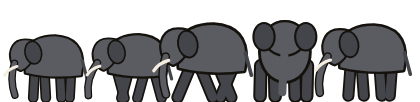
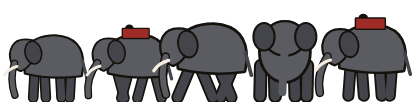
The night crossing, round 11: a deeper lean on the iPad for the wade, a slower dawn, a dusk-toned dark over the channel, softer banks, rafts with hides and paddlers, mahouts [skip ci]
What the seventh hater found (tools/hydaspes/ROUNDS.md): the island and the waders drawn worse than the
camps. The globe leans deeper on the iPad so the men in the channel are bodies; the dawn thins more
slowly so the dark over the channel holds while the column is on the island, in a dusk tone; the
island's edge and the banks are darker water, not black; the rafts are stuffed hides lashed to poles
with paddlers and a horse; two elephants carry mahouts.

Claude-Session: https://claude.ai/code/session_01BAtskAVj8DPfVm79Es5aLJ

Changed region(s): [[0.8357, 0.1176, 0.9286, 0.2941], [0.2786, 0.2353, 0.3714, 0.3824]]

diff --git a/tools/hydaspes/art.js b/tools/hydaspes/art.js
@@ -14,7 +14,7 @@
                   water: '#262220', water2: '#2E2A28', sheen: '#8E8C96', bank: '#0A0A12', foam: '#A6A4AE', wood: '#0E1620', wood2: '#172430',
                   kas: '#1F2436', sand: '#4C4A50', sand2: '#3A383E', edge: '#141827', moon: '#8E99B8' };
   const DAY = { plain: '#7A7E6E', plain2: '#878B78', plain3: '#6B6F60', hill: '#6E7266', hillRim: '#A8AB98',
-                water: '#4E3A2C', water2: '#5C4634', sheen: '#C8AE8E', bank: '#2E2824', foam: '#E8DCC8', wood: '#3C4E3A', wood2: '#4A5E46',
+                water: '#4E3A2C', water2: '#5C4634', sheen: '#C8AE8E', bank: '#40322A', foam: '#E8DCC8', wood: '#3C4E3A', wood2: '#4A5E46',
                 kas: '#66707E', sand: '#A69C88', sand2: '#8A8070', edge: '#6E7684', moon: '#F0C890' };
   const INK = '#15110C', FIRE = '#FFB347', FLAME = '#FFE08A', EMBER = '#E2552B', TENT = '#E8DCC2', TENT_SHADE = '#B9AC90';
   const SKIN = '#D9B48C', BRONZE = '#C9A24B', IRON = '#8A8D92', RED = '#9E2B25', HORSE = '#5A3D28', HORSE2 = '#8C6A48';
@@ -153,7 +153,7 @@
       line(ctx, T.centre, P); ctx.lineWidth = width * 1.5; ctx.stroke();
     };
     bed(flood * 2.2, B.rgba(pal.water, 0.25));
-    bed(flood * 1.78, B.rgba(pal.bank, 0.85));        // the wet margin: mud the flood has just left
+    bed(flood * 1.78, B.rgba(pal.bank, 0.5));         // the wet margin: mud the flood has just left, a little darker than the water
     bed(flood * 1.6, pal.water);
     bed(flood * 0.7, pal.water2);
     // at the bend the flood spreads wide, round the island: a long stretch of the middle, tapered
@@ -212,7 +212,7 @@
     for (const wd of T.woods) trees(wavy(wd.c, 11), false);
     poly(ctx, head, P); ctx.fillStyle = pal.plain2; ctx.fill();
     trees(head, true);
-    poly(ctx, isl, P); ctx.strokeStyle = B.rgba(pal.bank, 0.9); ctx.lineWidth = Math.max(1, px(0.09)); ctx.stroke();   // the water's edge, dark
+    poly(ctx, isl, P); ctx.strokeStyle = B.rgba(pal.bank, 0.45); ctx.lineWidth = Math.max(1, px(0.05)); ctx.stroke();   // the water's edge, a little darker
     poly(ctx, isl, P); ctx.fillStyle = pal.sand; ctx.fill();
     ctx.save(); poly(ctx, isl, P); ctx.clip();                                                                        // a sandbar: mottled, scrub in patches
     for (const m of SCATTER.fine) if (insidePoly(m, isl)) { const [x, y] = P(m); ctx.fillStyle = B.rgba(m[4] < 0.5 ? pal.sand2 : pal.plain2, 0.25 + m[5] * 0.3); ctx.beginPath(); ctx.ellipse(x, y, Math.max(1, px(0.02 + m[2] * 0.05)), Math.max(1, px(0.012 + m[3] * 0.03)), m[5] * TAU, 0, TAU); ctx.fill(); }
@@ -250,7 +250,7 @@
       // (opaque almost to its edge: the wide picture's hole closes under its last few per cent, so nothing shows through between them)
       ellipse(box, (c) => { const g = c.createRadialGradient(0, 0, 0, 0, 0, 1); g.addColorStop(0.97, 'rgba(0,0,0,1)'); g.addColorStop(1, 'rgba(0,0,0,0)'); return g; });
     } else {
-      ellipse(box, (c) => { const g = c.createRadialGradient(0, 0, 0, 0, 0, 1); g.addColorStop(0, 'rgba(0,0,0,1)'); g.addColorStop(0.72, 'rgba(0,0,0,1)'); g.addColorStop(1, 'rgba(0,0,0,0)'); return g; });
+      ellipse(box, (c) => { const g = c.createRadialGradient(0, 0, 0, 0, 0, 1); g.addColorStop(0, 'rgba(0,0,0,1)'); g.addColorStop(0.62, 'rgba(0,0,0,1)'); g.addColorStop(1, 'rgba(0,0,0,0)'); return g; });
       mg.globalCompositeOperation = 'destination-out';
       ellipse(T.close, (c) => { const g = c.createRadialGradient(0, 0, 0, 0, 0, 1); g.addColorStop(0.93, 'rgba(0,0,0,1)'); g.addColorStop(0.97, 'rgba(0,0,0,0)'); return g; });
     }
@@ -391,9 +391,18 @@
   }
   function raft(ctx, x, y, s, t) {
     const bob = Math.sin(t * TAU + x) * s * 0.03;
-    for (let i = 0; i < 4; i++) B.inked(ctx, (c) => c.ellipse(x - s * 0.3 + i * s * 0.2, y + bob, s * 0.12, s * 0.07, 0, 0, TAU), '#A88C5E', INK, s * 0.03);
-    horse(ctx, x - s * 0.1, y - s * 0.03 + bob, s * 0.32, 0, false, HORSE);
-    horse(ctx, x + s * 0.18, y - s * 0.01 + bob, s * 0.3, 0.2, false, HORSE2);
+    // the hides: rounded bags in a row, each stitched, lashed to two poles
+    for (let i = 0; i < 5; i++) {
+      B.inked(ctx, (c) => c.ellipse(x - s * 0.36 + i * s * 0.18, y + bob, s * 0.1, s * 0.075, 0, 0, TAU), '#B8976A', INK, s * 0.03);
+      ctx.strokeStyle = B.rgba(INK, 0.5); ctx.lineWidth = s * 0.012; ctx.beginPath(); ctx.moveTo(x - s * 0.4 + i * s * 0.18, y + bob - s * 0.02); ctx.lineTo(x - s * 0.32 + i * s * 0.18, y + bob + s * 0.03); ctx.stroke();
+    }
+    ctx.strokeStyle = '#5A4330'; ctx.lineWidth = s * 0.025;
+    for (const dy of [-0.06, 0.06]) { ctx.beginPath(); ctx.moveTo(x - s * 0.46, y + bob + s * dy); ctx.lineTo(x + s * 0.4, y + bob + s * dy); ctx.stroke(); }
+    // two paddlers at the ends, a horse standing between
+    soldier(ctx, x - s * 0.44, y + bob + s * 0.04, s * 0.22, 0, { shield: 'none', tunic: RED });
+    soldier(ctx, x + s * 0.42, y + bob + s * 0.04, s * 0.22, 0, { shield: 'none', tunic: TENT_SHADE });
+    horse(ctx, x, y - s * 0.02 + bob, s * 0.3, 0, false, HORSE);
+    ctx.strokeStyle = INK; ctx.lineWidth = s * 0.02; ctx.beginPath(); ctx.moveTo(x - s * 0.5, y + bob); ctx.lineTo(x - s * 0.6, y + bob + s * 0.14 + Math.sin(t * TAU) * s * 0.04); ctx.stroke();   // a paddle
   }
   /** Water with ripples, `w` by `h` at (x, y) its top left, by `t`. */
   function water(ctx, x, y, w, h, t, color) {
@@ -474,8 +483,9 @@
       const mid = isl.reduce((acc, c) => [acc[0] + c[0] / isl.length, acc[1] + c[1] / isl.length], [0, 0]);
       const dx = A.landing[0] - mid[0], dy = A.landing[1] - mid[1];
       const shape = isl.map((c) => [c[0] + dx * 1.05, c[1] + dy * 1.05]).concat(isl.slice().reverse().map((c) => [c[0] + dx * 0.25, c[1] + dy * 0.25]));
-      ctx.save(); ctx.shadowColor = NIGHT.plain; ctx.shadowBlur = 0.12 / kpp;
-      poly(ctx, shape, P); ctx.fillStyle = NIGHT.plain; ctx.fill(); ctx.fill(); ctx.restore();
+      const dusk = B.mix(NIGHT.plain, DAY.plain, 0.22);
+      ctx.save(); ctx.shadowColor = dusk; ctx.shadowBlur = 0.12 / kpp;
+      poly(ctx, shape, P); ctx.fillStyle = dusk; ctx.fill(); ctx.fill(); ctx.restore();
       // a few of the island's trees over it, so the join reads as the same ground
       ctx.save(); poly(ctx, shape, P); ctx.clip();
       for (const m of SCATTER.trees) if (insidePoly(m, shape) && m[5] < 0.2) { const [x, y] = P(m), rr = Math.max(1.2, 0.03 / kpp); ctx.fillStyle = B.rgba(NIGHT.wood2, 0.7); ctx.beginPath(); ctx.arc(x, y, rr, 0, TAU); ctx.fill(); }
@@ -505,7 +515,7 @@
     for (let k = 0; k < 5; k++) {
       const x = w * (0.1 + k * 0.2) + (r() - 0.5) * 8, raise = k === 2 && i >= 2 && i <= 5 ? 1 : 0, size = h * (0.6 + r() * 0.2);
       const facing = k === 3 ? 0 : -1;                          // one turned to the viewer; the rest west, towards the far camp
-      elephant(ctx, x, h * 0.95 + Math.sin(t * TAU + k) * 0.4, size, t + k * 0.17 + r(), facing, false);
+      elephant(ctx, x, h * 0.95 + Math.sin(t * TAU + k) * 0.4, size, t + k * 0.17 + r(), facing, k === 1 || k === 4);
       if (raise) { ctx.save(); ctx.translate(x, 0); ctx.scale(-1, 1); ctx.translate(-x, 0); ctx.strokeStyle = GREY; ctx.lineWidth = h * 0.06; ctx.lineCap = 'round'; ctx.beginPath(); ctx.moveTo(x + h * 0.34, h * 0.55); ctx.quadraticCurveTo(x + h * 0.5, h * 0.25, x + h * 0.42, h * 0.08); ctx.stroke(); ctx.restore(); }
     }
   } });
@@ -747,7 +757,7 @@
     // longer threads in them
     ctx.save(); ctx.translate(w / 2, h / 2); ctx.scale(w / 2, h / 2);
     const g = ctx.createRadialGradient(0, 0, 0, 0, 0, 1);
-    g.addColorStop(0, 'rgba(130,140,170,0.14)'); g.addColorStop(0.7, 'rgba(130,140,170,0.06)'); g.addColorStop(1, 'rgba(130,140,170,0)');
+    g.addColorStop(0, 'rgba(130,140,170,0.07)'); g.addColorStop(0.7, 'rgba(130,140,170,0.03)'); g.addColorStop(1, 'rgba(130,140,170,0)');
     ctx.fillStyle = g; ctx.beginPath(); ctx.arc(0, 0, 1, 0, TAU); ctx.fill(); ctx.restore();
     const falloff = (x, y) => Math.pow(Math.max(0, 1 - Math.hypot((x - w / 2 + (y - h / 2) * 0.3) / (w / 2), (y - h / 2) / (h / 2))), 1.6);
     for (let k = 0; k < 7; k++) {

diff --git a/Prototypes/hydaspes/main.js b/Prototypes/hydaspes/main.js
@@ -31,7 +31,7 @@
   }
   /** The zoom at which a kilometre is `ppk` points across. */
   function zoomAtKm(ppk) { return Math.round(ppk * KM_PER_DEG / (R1 * D) * 100) / 100; }
-  var PPK = { pool: 1.6, valley: 7, mid: 22, close: 48, deepest: 60 };
+  var PPK = { pool: 1.6, valley: 7, mid: 22, close: 48, deepest: 90 };
   var Z = {};
   function scales() {
     Z.pool = zoomAtKm(PPK.pool); Z.valley = zoomAtKm(PPK.valley); Z.mid = zoomAtKm(PPK.mid); Z.close = zoomAtKm(PPK.close);
@@ -65,8 +65,8 @@
   function night(h) {
     // the wind and rain fall with the daylight (Arrian); the night thins over the next two hours
     if (h < HR.calm) return 1;
-    if (h > HR.calm + 2.2) return 0;
-    return 1 - (h - HR.calm) / 2.2;
+    if (h > HR.calm + 3.2) return 0;
+    return 1 - (h - HR.calm) / 3.2;
   }
   function ground(h) {
     var o = Math.round(night(h) * 50) / 50, first = nightShown < 0;

diff --git a/tools/hydaspes/ROUNDS.md b/tools/hydaspes/ROUNDS.md
@@ -257,3 +257,26 @@ are fires first.
 Overruled: the battle's scale (counters); the island surprise judged from a still at the landed
 moment, when the dark over the channel has just thinned (the surprise is in time: the column arrives
 on what reads as a headland, and the water opens as it does).
+
+### Round 11 — the seventh hater
+
+It gave the dusk camps the best frame on the globe and the shield drifting off downstream the one
+detail that shows somebody thought like a player; worst first: the island and the waders, the very
+moment, drawn worse than the camps (a teal polygon with a hard ragged edge, coins for men), the dawn
+mud, three projections in one army (three-quarter tents, plan boats, side elephants, top-down files),
+the day ground flat with a black-outlined river, the rain dashes in an oval, the rafts beige blobs,
+the pool's rim crisp in one shot and soft in another, the elephants five copies. Worst: the island and
+the waders. Real.
+
+Taken: the globe leans deeper on the iPad for the crossing and the wade (ninety points a kilometre;
+the phone was at the globe's limit already), so the men in the channel are bodies, not coins; the
+dawn thins more slowly, so the dark over the channel holds while the column is on the island, and
+that dark is a dusk tone between the two grounds, so it sits in the half-light; the island's edge
+and the day's banks are a little darker than the water, not black; the rafts are a row of stuffed
+hides lashed to poles with two paddlers and a horse; two of the elephants carry mahouts; the rain's
+smear under the threads is fainter; the pool's rim is one softness.
+
+Overruled: one projection for every counter (the camps are the three-quarter view the pitch names;
+the boats are seen from above because a boat on a map is; the elephants and horse in profile because
+that is how they are told apart at a counter's size; a redraw of every animal to the three-quarter
+view is the next round of art, not this night's).
